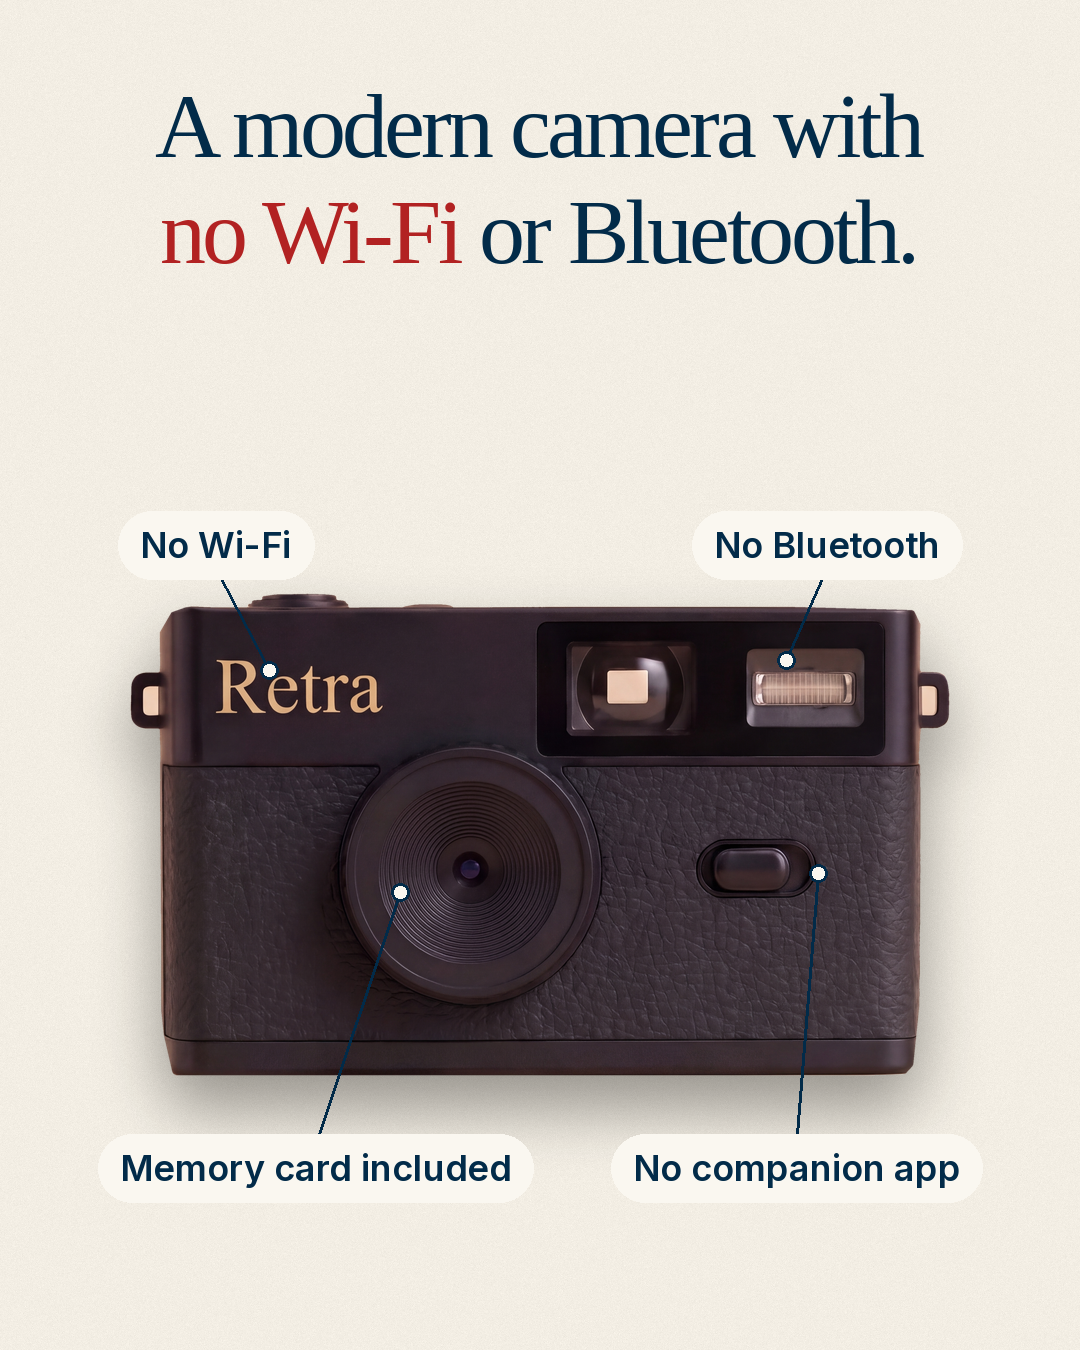
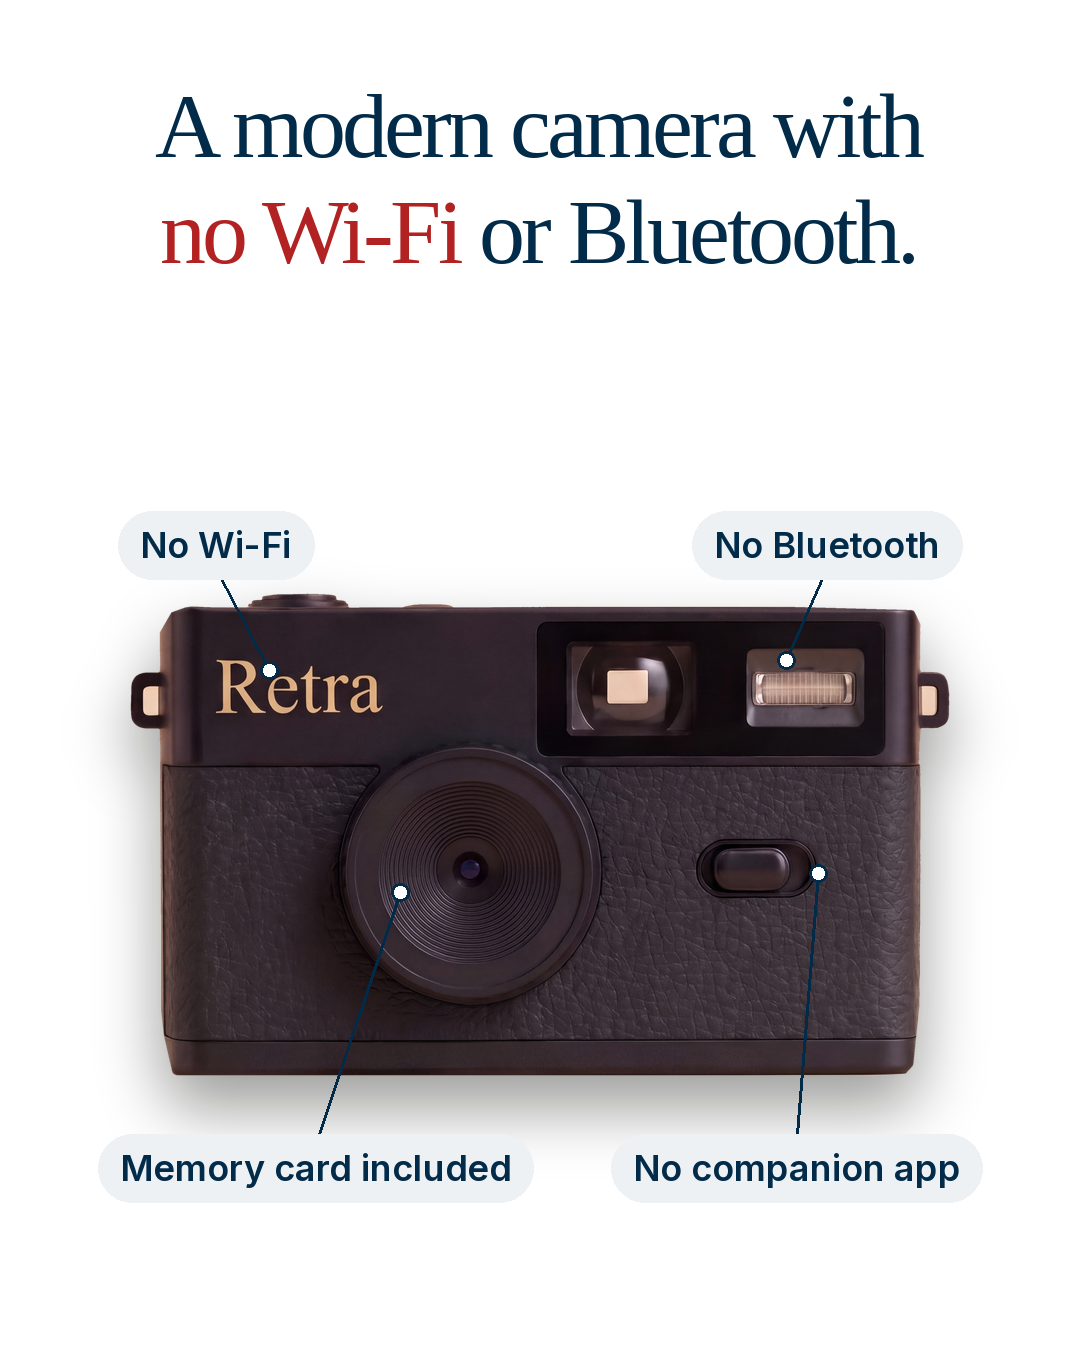
Retra W49 angles batch: 19 statics (9:16 + 4:5), 4K Kie scenes, white plain backgrounds, concepts CSV
Claude-Session: https://claude.ai/code/session_01Mp8pTs9zpTh5aGe4znSQmT

diff --git a/ads/brands/retra/weeks/2026-W49-angles/layouts.py b/ads/brands/retra/weeks/2026-W49-angles/layouts.py
@@ -35,6 +35,12 @@ def raw(path):
     return Image.open(p if p.exists() else p.with_suffix(".jpg")).convert("RGB")
 
 
+def disposable(height):
+    """Generic, unbranded disposable camera + film canister (green-screen cut-out)."""
+    im = Image.open(HERE / "renders/disposable_cut.png").convert("RGBA")
+    return im.resize((int(im.width * height / im.height), height), Image.LANCZOS)
+
+
 def rounded(im, r):
     m = Image.new("L", im.size, 0)
     ImageDraw.Draw(m).rounded_rectangle((0, 0, im.width - 1, im.height - 1), r, fill=255)
@@ -112,7 +118,7 @@ def a02(cid):
 
 # ---------------------------------------------------------------- 04 grandparents: minimal hero + handwriting
 def a04(cid):
-    img = paper(CREAM)
+    img = canvas(WHITE)
     lines = [S(cid, f"line_{i}", f"Handwritten line {i}") for i in (1, 2, 3)]
     y = 400
     for ln in lines:
@@ -137,7 +143,7 @@ def a07(cid):
 
 # ---------------------------------------------------------------- 08 wireless detox: annotated product diagram
 def a08(cid):
-    img = paper(CREAM)
+    img = canvas(WHITE)
     hl = S(cid, "headline", "Headline with keywords")
     kws = [k.strip().strip('"').lower() for k in S(cid, "keywords_to_colour", "").replace(";", ",").split(",") if k.strip()]
     f, lines = fit(hl, tinos, 960, 3, 92, 60)
@@ -185,22 +191,20 @@ def a08(cid):
         anchor = (lx if side == "l" else lx, ly + 22)
         d.line([(ax, ay), (anchor[0] + (tw / 2 if side == "l" else -tw / 2), ly + (44 if ly < ay else 0))],
                fill=INK, width=3)
-        d.ellipse((ax - 9, ay - 9, ax + 9, ay + 9), fill=(250, 247, 240), outline=INK, width=3)
-        pill(img, t, fl, tx + tw / 2, ly + 22, (250, 247, 240), INK, padx=22, pady=12)
+        d.ellipse((ax - 9, ay - 9, ax + 9, ay + 9), fill=WHITE, outline=INK, width=3)
+        pill(img, t, fl, tx + tw / 2, ly + 22, (238, 241, 244), INK, padx=22, pady=12)
         d = ImageDraw.Draw(img)
     return img
 
 
 # ---------------------------------------------------------------- 09 cost vs disposables: comparison table
 def a09(cid):
-    img = paper(CREAM)
+    img = canvas(WHITE)
     y = text_block(img, S(cid, "headline", "Headline here"), tinos, 70, 340, 940, 2, 84, 58, INK, "center")
     top = y + 30
     colx = [70, 470, 780]  # label col, left col centre band start, right col
     # header images
-    disp = raw(GAL / "renders/disposable_t1.png").crop((380, 300, 1700, 1820))
-    disp = rounded(ImageOps.fit(disp, (250, 290), Image.LANCZOS), 22)
-    img.alpha_composite(disp, (int(530 - 125), int(top)))
+    place(img, disposable(280), 530, top + 150, shadow=0.35, blur=16, drop=(0, 14))
     place(img, cam("chalk", 300, -3), 850, top + 150, shadow=0.35, blur=18, drop=(0, 16))
     fh = inter(34, "Bold")
     hy = top + 310
@@ -217,13 +221,13 @@ def a09(cid):
             rows.append(parts + [""] * (3 - len(parts)))
     rh = 128
     # highlight Retra column
-    d.rounded_rectangle((700, hy - 20, 1000, ry + rh * len(rows) + 10), 26, fill=(255, 252, 246))
+    d.rounded_rectangle((700, hy - 20, 1000, ry + rh * len(rows) + 10), 26, fill=(239, 243, 246))
     fl = inter(32, "SemiBold")
     fv = inter(32, "Medium")
     for i, (lab, lv, rv) in enumerate(rows):
         yy = ry + i * rh
         if i:
-            d.line([(70, yy - 8), (1010, yy - 8)], fill=(214, 205, 190), width=2)
+            d.line([(70, yy - 8), (1010, yy - 8)], fill=(222, 226, 230), width=2)
         f1, l1 = fit(lab, lambda s: inter(s, "SemiBold"), 300, 2, 32, 24)
         draw_lines(img, l1, f1, 70, yy + 12, INK, "left", 1.15, None, 300)
         f2, l2 = fit(lv, lambda s: inter(s, "Medium"), 250, 2, 32, 24)
@@ -237,7 +241,7 @@ def a09(cid):
 # ---------------------------------------------------------------- 10 one click, four filters: filter grid
 def a10(cid):
     from compose_gallery import retra_filter
-    img = paper(CREAM)
+    img = canvas(WHITE)
     y = text_block(img, S(cid, "headline", "Headline here"), tinos, 70, 330, 940, 2, 84, 58, INK, "center")
     T, gap = 400, 20
     base = ImageOps.fit(raw(SAMPLES["harbour"]), (T, T), Image.LANCZOS, centering=(0.5, 0.45))
@@ -264,7 +268,7 @@ TILE_BG = {"chalk": (238, 233, 222), "obsidian": (216, 214, 212), "sol": (246, 2
 
 
 def a11(cid):
-    img = paper((250, 247, 240))
+    img = canvas(WHITE)
     y = text_block(img, S(cid, "headline", "Headline here"), tinos, 70, 320, 940, 2, 80, 56, INK, "center")
     tw_, th_, gap = 300, 360, 20
     x0 = (W - 3 * tw_ - 2 * gap) / 2
@@ -315,7 +319,7 @@ def a14(cid):
 
 # ---------------------------------------------------------------- 15 low stock: "we're sorry" letter
 def a15(cid):
-    img = paper((252, 250, 245), seed=7, amt=1.6)
+    img = canvas(WHITE)
     d = ImageDraw.Draw(img)
     y = text_block(img, S(cid, "title", "We're sorry."), lambda s: tinos(s, -0.03), 80, 360, 920, 2, 104, 70, INK)
     d.line([(80, y + 14), (240, y + 14)], fill=RED, width=5)
@@ -343,7 +347,7 @@ def a15(cid):
 # ---------------------------------------------------------------- 16 price card
 def a16(cid):
     img = canvas((226, 172, 46))
-    card = rounded(Image.new("RGBA", (940, 1240), (252, 250, 245, 255)), 40)
+    card = rounded(Image.new("RGBA", (940, 1240), (255, 255, 255, 255)), 40)
     place(img, card, W / 2, 960, shadow=0.35, blur=30, drop=(0, 20))
     pill(img, S(cid, "label", "EXCLUSIVE DEAL").upper(), inter(30, "Bold"), W / 2, 420, INK, WHITE, padx=30, pady=12)
     y = text_block(img, S(cid, "headline", "Headline here"), tinos, 120, 470, 840, 2, 84, 58, INK, "center")
@@ -376,7 +380,7 @@ def a16(cid):
 
 # ---------------------------------------------------------------- 17 camping: Venn diagram
 def a17(cid):
-    img = paper(CREAM)
+    img = canvas(WHITE)
     y = text_block(img, S(cid, "headline", "Headline"), tinos, 70, 340, 940, 2, 88, 60, INK, "center")
     cy, r = y + 430, 320
     lay = Image.new("RGBA", (W, H), (0, 0, 0, 0))
@@ -391,8 +395,7 @@ def a17(cid):
     d = ImageDraw.Draw(img)
     d.rounded_rectangle((190, cy - 70, 270, cy + 80), 16, outline=INK, width=5)
     d.ellipse((222, cy + 54, 238, cy + 70), fill=INK)
-    disp = raw(GAL / "renders/disposable_t1.png").crop((380, 300, 1700, 1820))
-    img.alpha_composite(rounded(ImageOps.fit(disp, (130, 150), Image.LANCZOS), 14), (810, int(cy - 70)))
+    place(img, disposable(165), 875, cy + 5, shadow=0.3, blur=10, drop=(0, 8))
     place(img, cam("pine", 270, -3), 540, cy - 10, shadow=0.4, blur=14, drop=(0, 12))
     draw_lines(img, [S(cid, "overlap_center", "Retra")], inter(32, "Bold"), 390, cy + 110, INK, "center", 1, None, 300)
     text_block(img, S(cid, "sub", "Sub"), lambda s: inter(s, "Medium"), 90, cy + r + 40, 900, 2, 36, 26, BODY,
@@ -403,7 +406,7 @@ def a17(cid):
 # ---------------------------------------------------------------- 18 nights out: "5 things" listicle
 def a18(cid):
     from compose_gallery import retra_filter
-    img = paper((236, 240, 244))
+    img = canvas(WHITE)
     y = text_block(img, S(cid, "headline", "Headline"), tinos, 70, 340, 940, 2, 80, 56, INK, "left")
     y += 26
     d = ImageDraw.Draw(img)
@@ -428,7 +431,7 @@ def a18(cid):
 # ---------------------------------------------------------------- 19 road trip: Day 1 / 7 / 21 timeline
 def a19(cid):
     from compose_gallery import retra_filter
-    img = paper(CREAM)
+    img = canvas(WHITE)
     y = text_block(img, S(cid, "headline", "Headline"), tinos, 70, 330, 940, 2, 84, 58, INK, "left")
     y += 40
     pics = [("ferry", "Natural"), ("bike", "Vintage"), ("harbour", "Film")]

diff --git a/ads/brands/retra/weeks/2026-W49-angles/scenes.py b/ads/brands/retra/weeks/2026-W49-angles/scenes.py
@@ -1,0 +1,152 @@
+"""Lifestyle-scene layouts for the W49 angles batch (4K Kie renders in renders/, picks below).
+    python3 scenes.py [ids...]  -> output/RET_A49_<id>_..._{9x16,4x5}.png
+"""
+import sys
+from pathlib import Path
+
+from PIL import Image, ImageDraw, ImageFilter, ImageOps
+
+from lib import *  # noqa: F401,F403
+import lib
+from layouts import S, text_block, tick, rounded
+
+HERE = Path(__file__).resolve().parent
+R = HERE / "renders"
+PICKS = {"01": "01_t1", "03": "03_t1", "05a": "05a_t2", "05b": "05b_t1", "06": "06_t1", "12": "12_t1", "13": "13_t2"}
+
+
+def src(k):
+    return Image.open(R / f"{PICKS[k]}.png").convert("RGB")
+
+
+def full(k, centering=(0.5, 0.5)):
+    return ImageOps.fit(src(k), (W, H), Image.LANCZOS, centering=centering).convert("RGBA")
+
+
+def tiktok_caption(img, text, y, size=44, maxw=900, align="center"):
+    """TikTok-style caption: each line on its own white rounded block."""
+    f, lines = fit(text, lambda s: inter(s, "SemiBold"), maxw - 40, 4, size, 32)
+    asc, desc = f.getmetrics()
+    lh = asc + desc + 18
+    d = ImageDraw.Draw(img)
+    for i, ln in enumerate(lines):
+        tw = measure(f, ln)
+        x = (W - tw) / 2 if align == "center" else 70
+        box = (x - 20, y + i * lh - 6, x + tw + 20, y + i * lh + lh - 10)
+        d.rounded_rectangle(box, 14, fill=(255, 255, 255))
+        lib.TEXT_BOXES.append(box)
+    for i, ln in enumerate(lines):
+        tw = measure(f, ln)
+        x = (W - tw) / 2 if align == "center" else 70
+        draw_text(d, (x, y + i * lh + 2), ln, f, (18, 18, 18))
+    return y + len(lines) * lh
+
+
+# ---------------------------------------------------------------- 01 wedding: X-style post from Retra's account
+def s01(cid):
+    img = canvas(WHITE)
+    d = ImageDraw.Draw(img)
+    x0, y0 = 60, 330
+    d.ellipse((x0, y0, x0 + 96, y0 + 96), fill=INK)  # avatar: Retra wordmark monogram
+    fa = tinos(52, -0.02)
+    draw_text(d, (x0 + 48 - measure(fa, "R") / 2, y0 + 14), "R", fa, (232, 205, 140))
+    fn, fh = inter(36, "Bold"), inter(34, "Regular")
+    name = S(cid, "display_name", "Retra")
+    draw_text(d, (x0 + 120, y0 + 6), name, fn, (15, 20, 25))
+    draw_text(d, (x0 + 120, y0 + 52), f'{S(cid, "handle", "@retra")} · {S(cid, "date", "Nov 28")}', fh, (83, 100, 113))
+    lib.TEXT_BOXES.append((x0, y0, x0 + 700, y0 + 96))
+    f, lines = fit(S(cid, "post_text", "Post"), lambda s: inter(s, "Regular"), 960, 6, 40, 30)
+    y = draw_lines(img, wrap(S(cid, "post_text", "Post"), f, 960), f, x0, y0 + 130, (15, 20, 25), "left", 1.28, None, 960)
+    ph = 1600 - (y + 26)
+    photo = ImageOps.fit(src("01"), (960, int(ph)), Image.LANCZOS, centering=(0.45, 0.5))
+    img.alpha_composite(rounded(photo, 32), (x0, int(y + 26)))
+    d = ImageDraw.Draw(img)
+    d.rounded_rectangle((x0, y + 26, x0 + 960, y + 26 + ph), 32, outline=(207, 217, 222), width=2)
+    return img
+
+
+# ---------------------------------------------------------------- 03 sensory: dark close-up + callouts
+def s03(cid):
+    img = full("03", (0.5, 0.42))
+    scrim(img, 0, 700, (0, 0, 0), 120, "down")
+    text_block(img, S(cid, "headline", "Headline"), lambda s: tinos(s, -0.03), 80, 340, 920, 2, 88, 60,
+               (245, 240, 232), "center", 1.04)
+    # camera sits ~y 700-1200 in this crop; labels in two rows underneath with leader lines up to it
+    fl = inter(32, "SemiBold")
+    d = ImageDraw.Draw(img)
+    slots = [(285, 1330, 300), (795, 1330, 780), (285, 1450, 420), (795, 1450, 660)]
+    for i, (cx, cy, ax) in enumerate(slots, 1):
+        t = S(cid, f"callout_{i}", "")
+        d.line([(cx, cy - 26), (ax, 1185)], fill=(235, 228, 216), width=2)
+        d.ellipse((ax - 7, 1185 - 7, ax + 7, 1185 + 7), fill=(235, 228, 216))
+        pill(img, t, fl, cx, cy, (20, 20, 22), (240, 234, 224), padx=22, pady=12)
+        d = ImageDraw.Draw(img)
+    return img
+
+
+# ---------------------------------------------------------------- 05 solo travel: split phone vs Retra
+def s05(cid):
+    img = canvas(WHITE)
+    y = text_block(img, S(cid, "headline", "Headline"), tinos, 70, 320, 940, 2, 76, 56, INK, "center")
+    top = int(y + 24)
+    half = (1635 - top - 12) // 2
+    PW = 430  # stats panel width; photo fills the rest, cropped to its subject
+    rows = [("05a", (0.56, 0.55), "left_label", "left_", False), ("05b", (0.41, 0.45), "right_label", "right_", True)]
+    for r_, (k, cen, lab, pre, ok) in enumerate(rows):
+        yy = top + r_ * (half + 12)
+        ph = ImageOps.fit(src(k), (W - PW, half), Image.LANCZOS, centering=cen).convert("RGBA")
+        img.alpha_composite(ph, (PW, yy))
+        ImageDraw.Draw(img).rectangle((0, yy, PW - 1, yy + half - 1), fill=(14, 16, 20) if not ok else INK)
+        draw_lines(img, [S(cid, lab, "")], tinos(58, -0.03), 44, yy + 40, WHITE, "left", 1.0, None, PW - 70)
+        d = ImageDraw.Draw(img)
+        ty = yy + 140
+        for i in (1, 2, 3):
+            t = S(cid, f"{pre}{i}", "")
+            col = (95, 200, 160) if ok else (240, 110, 100)
+            d.ellipse((44, ty + 2, 84, ty + 42), fill=col)
+            tick(d, 53, ty + 11, 22, WHITE, ok, 5)
+            f, ls = fit(t, lambda s: inter(s, "SemiBold"), PW - 130, 2, 32, 24)
+            ty = draw_lines(img, ls, f, 100, ty + 2, WHITE, "left", 1.15, None, PW - 130) + 22
+            d = ImageDraw.Draw(img)
+    return img
+
+
+# ---------------------------------------------------------------- 06 theme park: POV caption
+def s06(cid):
+    img = full("06", (0.5, 0.5))
+    tiktok_caption(img, S(cid, "pov_caption", "POV"), 330, 46, 940)
+    scrim(img, 1380, 1700, (0, 0, 0), 150, "up")
+    text_block(img, S(cid, "sub", "Sub"), lambda s: inter(s, "SemiBold"), 90, 1530, 900, 1, 40, 30, WHITE, "center",
+               1.1, (0, 0, 0, 160))
+    return img
+
+
+# ---------------------------------------------------------------- 12 honeymoon: caption bubble
+def s12(cid):
+    img = full("12", (0.5, 0.5))
+    tiktok_caption(img, S(cid, "caption", "Caption"), 330, 46, 940)
+    return img
+
+
+# ---------------------------------------------------------------- 13 parents' gift: bow + headline
+def s13(cid):
+    img = canvas(WHITE)
+    y = text_block(img, S(cid, "headline", "Headline"), lambda s: tinos(s, -0.03), 80, 330, 920, 3, 84, 58, INK,
+                   "center", 1.04)
+    y = text_block(img, S(cid, "sub", "Sub"), lambda s: inter(s, "Medium"), 90, y + 12, 900, 2, 36, 28, BODY, "center", 1.25)
+    ph_top = int(y + 36)
+    photo = src("13")
+    photo = photo.crop((0, 1270, photo.width, photo.height))  # below the flat band Kie left at the top
+    photo = ImageOps.fit(photo, (W, H - ph_top), Image.LANCZOS, centering=(0.5, 0.75))
+    img.alpha_composite(photo.convert("RGBA"), (0, ph_top))
+    return img
+
+
+BUILDERS = {"01": s01, "03": s03, "05": s05, "06": s06, "12": s12, "13": s13}
+NAMES = {"01": "tof_wedding-post", "03": "tof_sensory-calm", "05": "tof_solo-travel-split", "06": "tof_theme-park-pov",
+         "12": "tof_honeymoon-pov", "13": "tof_screen-free-gift"}
+
+if __name__ == "__main__":
+    for i in sys.argv[1:] or list(BUILDERS):
+        lib.TEXT_BOXES.clear()
+        print(save(BUILDERS[i](i), f"RET_A49_{i}_{NAMES[i]}"))

diff --git a/ads/brands/retra/weeks/2026-W49-angles/README.md b/ads/brands/retra/weeks/2026-W49-angles/README.md
@@ -7,9 +7,17 @@ Funnel: 13 TOF · 3 MOF · 3 BOF.
 - `copy.json`: StefanBrain copy (project "Retra Launch", chat `chat_e2881d64bb4e43c687b42831eb31dff3`), v2 after claim fixes; `copy_v1.json` is the first draft.
 - `layouts.py`: product-only layouts (02 04 07 08 09 10 11 14 15 16 17 18 19) from clean cut-outs
   (`assets/retra/product/cutout_clean/`, made by `clean_cutouts.py`) and the 4K gallery fronts.
-- `render.py`: 4K Kie scenes for the lifestyle concepts (01 03 05 06 12 13). **Blocked: Kie had 0.3 credits and OpenAI image credits are exhausted.**
+- `render.py`: 4K Kie scenes (Nano Banana Pro, reference-guided from `assets/retra/product/retra_<colour>_34.jpg`) for 01 03 05 06 12 13; 2 takes each, picks in `scenes.py` (PICKS). Raw renders kept as JPEG archives; 4K PNGs stay local.
+- `scenes.py`: layouts on the scene renders.
+- `output/`: 19 statics × (9:16 + 4:5), `_sheet_4x5.jpg`, `_sheet_9x16.jpg`, `RET_A49_concepts.csv` (on-image text, Meta headline, primary text, persona, notes).
 - `lib.py`: type system (Tinos / Inter / Shantell Sans, navy #022B49) and 9:16 + 4:5 export.
 - `sheet.py`: contact sheets.
+
+## Backgrounds
+Plain backgrounds are pure white (Sam, 2026-11-26). Deliberate colour blocks stay: 02 dark collage, 07 navy, 14 black, 16 yellow frame.
+
+## Cost
+Kie: 354 credits for 14 scene renders + 18 for the disposable cut-out, about $1.86.
 
 ## Flags
 - `_ILLUSTRATIVE` (02, 10, 18, 19): the sample photos are Kie renders with Retra's filter curves applied, not real Retra photos. Swap in real samples before launch.
